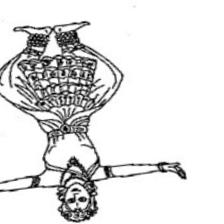
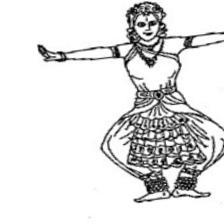
feat: fix reversed Sthana images and add Academics page

diff --git a/src/routes/academics.tsx b/src/routes/academics.tsx
@@ -1,0 +1,106 @@
+import { createFileRoute } from "@tanstack/react-router";
+import { SiteShell } from "@/components/site/SiteShell";
+
+export const Route = createFileRoute("/academics")({
+  component: AcademicsPage,
+});
+
+function AcademicsPage() {
+  return (
+    <SiteShell>
+      <div className="mx-auto max-w-5xl px-6 py-24 lg:px-10 lg:py-32">
+        <header className="mb-16 border-b border-background/10 pb-10">
+          <p className="label text-[color:var(--terracotta)]">Academic Resources</p>
+          <h1 className="mt-4 font-serif text-5xl font-medium sm:text-6xl text-foreground">
+            Syllabi & Examinations
+          </h1>
+          <p className="mt-6 max-w-2xl text-lg leading-relaxed text-muted-foreground">
+            A comprehensive guide to formal dance education. From diploma courses to university degrees, access study materials, exam procedures, and career pathways in Bharatiya classical dance.
+          </p>
+        </header>
+
+        <div className="space-y-24">
+          <Section title="Degree & Certifications">
+            <div className="grid grid-cols-1 md:grid-cols-2 gap-6">
+              <Card 
+                title="B.P.A / B.A in Dance" 
+                desc="Three to four-year undergraduate programs focusing on practical performance, Natya Shastra theory, and historical context."
+              />
+              <Card 
+                title="M.P.A / M.A in Dance" 
+                desc="Postgraduate studies emphasizing research, choreography, nattuvangam, and advanced abhinaya."
+              />
+              <Card 
+                title="Diploma & Certificate Courses" 
+                desc="One to two-year foundation programs for those seeking structured learning outside a full degree."
+              />
+              <Card 
+                title="Akhil Bharatiya Gandharva Mahavidyalaya" 
+                desc="Graded examinations (Prarambhik to Visharad and Alankar) recognized nationwide."
+              />
+            </div>
+          </Section>
+
+          <Section title="Exam Procedures & Materials">
+            <div className="space-y-8">
+              <div className="bg-secondary p-8 border border-border">
+                <h3 className="font-serif text-2xl text-foreground mb-4">Theory (Shastra)</h3>
+                <ul className="list-disc pl-5 space-y-2 text-muted-foreground text-sm">
+                  <li>Detailed study of Abhinaya Darpana and Natya Shastra.</li>
+                  <li>History of dance lineages (Banis) and temple traditions.</li>
+                  <li>Tala systems (Sapta Talas, Jathis) and musical accompaniment.</li>
+                  <li>Biographies of legendary Gurus and Vaggeyakaras.</li>
+                </ul>
+              </div>
+              
+              <div className="bg-secondary p-8 border border-border">
+                <h3 className="font-serif text-2xl text-foreground mb-4">Practical (Prayoga)</h3>
+                <ul className="list-disc pl-5 space-y-2 text-muted-foreground text-sm">
+                  <li>Demonstration of adavus in three speeds (Kalas).</li>
+                  <li>Presentation of a complete Margam (Alarippu to Thillana).</li>
+                  <li>Impromptu Abhinaya to a given Sahitya or Padam.</li>
+                  <li>Nattuvangam practice and reciting Jathis.</li>
+                </ul>
+              </div>
+            </div>
+          </Section>
+
+          <Section title="Career Pathways">
+            <div className="grid grid-cols-1 md:grid-cols-3 gap-6">
+              <div className="border-t-2 border-[color:var(--gold)] pt-4">
+                <h4 className="font-serif text-xl mb-2">Performance & Choreography</h4>
+                <p className="text-sm text-muted-foreground">Solo performer, ensemble member, or creative choreographer for classical and contemporary productions.</p>
+              </div>
+              <div className="border-t-2 border-[color:var(--terracotta)] pt-4">
+                <h4 className="font-serif text-xl mb-2">Education & Academia</h4>
+                <p className="text-sm text-muted-foreground">University professor, school instructor, or private Nattuvanar passing down the lineage.</p>
+              </div>
+              <div className="border-t-2 border-[color:var(--maroon)] pt-4">
+                <h4 className="font-serif text-xl mb-2">Research & Archiving</h4>
+                <p className="text-sm text-muted-foreground">Dance historian, museum curator, or arts administrator preserving cultural heritage.</p>
+              </div>
+            </div>
+          </Section>
+        </div>
+      </div>
+    </SiteShell>
+  );
+}
+
+function Section({ title, children }: { title: string; children: React.ReactNode }) {
+  return (
+    <section>
+      <h2 className="mb-8 font-serif text-3xl text-foreground">{title}</h2>
+      {children}
+    </section>
+  );
+}
+
+function Card({ title, desc }: { title: string; desc: string }) {
+  return (
+    <div className="bg-card p-6 border border-border transition-colors hover:bg-secondary">
+      <h3 className="font-serif text-xl text-foreground mb-3">{title}</h3>
+      <p className="text-sm leading-relaxed text-muted-foreground">{desc}</p>
+    </div>
+  );
+}

diff --git a/src/components/site/SiteHeader.tsx b/src/components/site/SiteHeader.tsx
@@ -5,6 +5,7 @@ const nav = [
   { to: "/practice", label: "Practice" },
   { to: "/heritage", label: "Heritage" },
   { to: "/philosophy", label: "Philosophy" },
+  { to: "/academics", label: "Academics" },
 ] as const;
 
 export function SiteHeader() {
